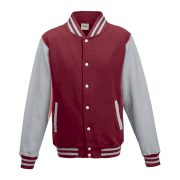
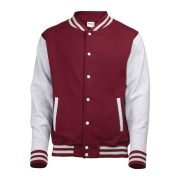
Real photos: Varsity Burgundy/Heather Grey front, Baseball product image on the real Burgundy/Charcoal hoodie
Claude-Session: https://claude.ai/code/session_01MSgM9i85HvwumTiwg3Y5AK

diff --git a/leavers-designer/theme/assets/leavers-photos.js b/leavers-designer/theme/assets/leavers-photos.js
@@ -505,9 +505,9 @@ window.LEAVERS_PHOTOS = {
     "name": "Burgundy / Heather Grey",
     "hex": "#6B1A2C",
     "trim": "#A8AAAF",
-    "front": "ld-varsity-jacket-burgundy--heather-grey-front.jpg",
+    "front": "ld-varsity-jacket-burgundy--heather-grey-front-v2.jpg",
     "back": "ld-varsity-jacket-burgundy--heather-grey-back-v3.jpg",
-    "real": false
+    "real": true
    },
    {
     "id": "fire-red--white",

diff --git a/leavers-designer/tools/process-photos.py b/leavers-designer/tools/process-photos.py
@@ -250,6 +250,7 @@ VARSITY_REAL = {
     'jet-black--heather-grey': 'jh043_black_grey.jpg',
     'jet-black--fire-red': 'jh043_black_red.jpg',
     'jet-black--sun-yellow': 'jh043_black_yellow.jpg',
+    'burgundy--heather-grey': 'jh043_burgundy_grey.jpg',
 }
 VARSITY_WAYS = [
     ('jet-black', 'white'), ('jet-black', 'fire-red'), ('jet-black', 'sun-yellow'), ('jet-black', 'hot-pink'),
